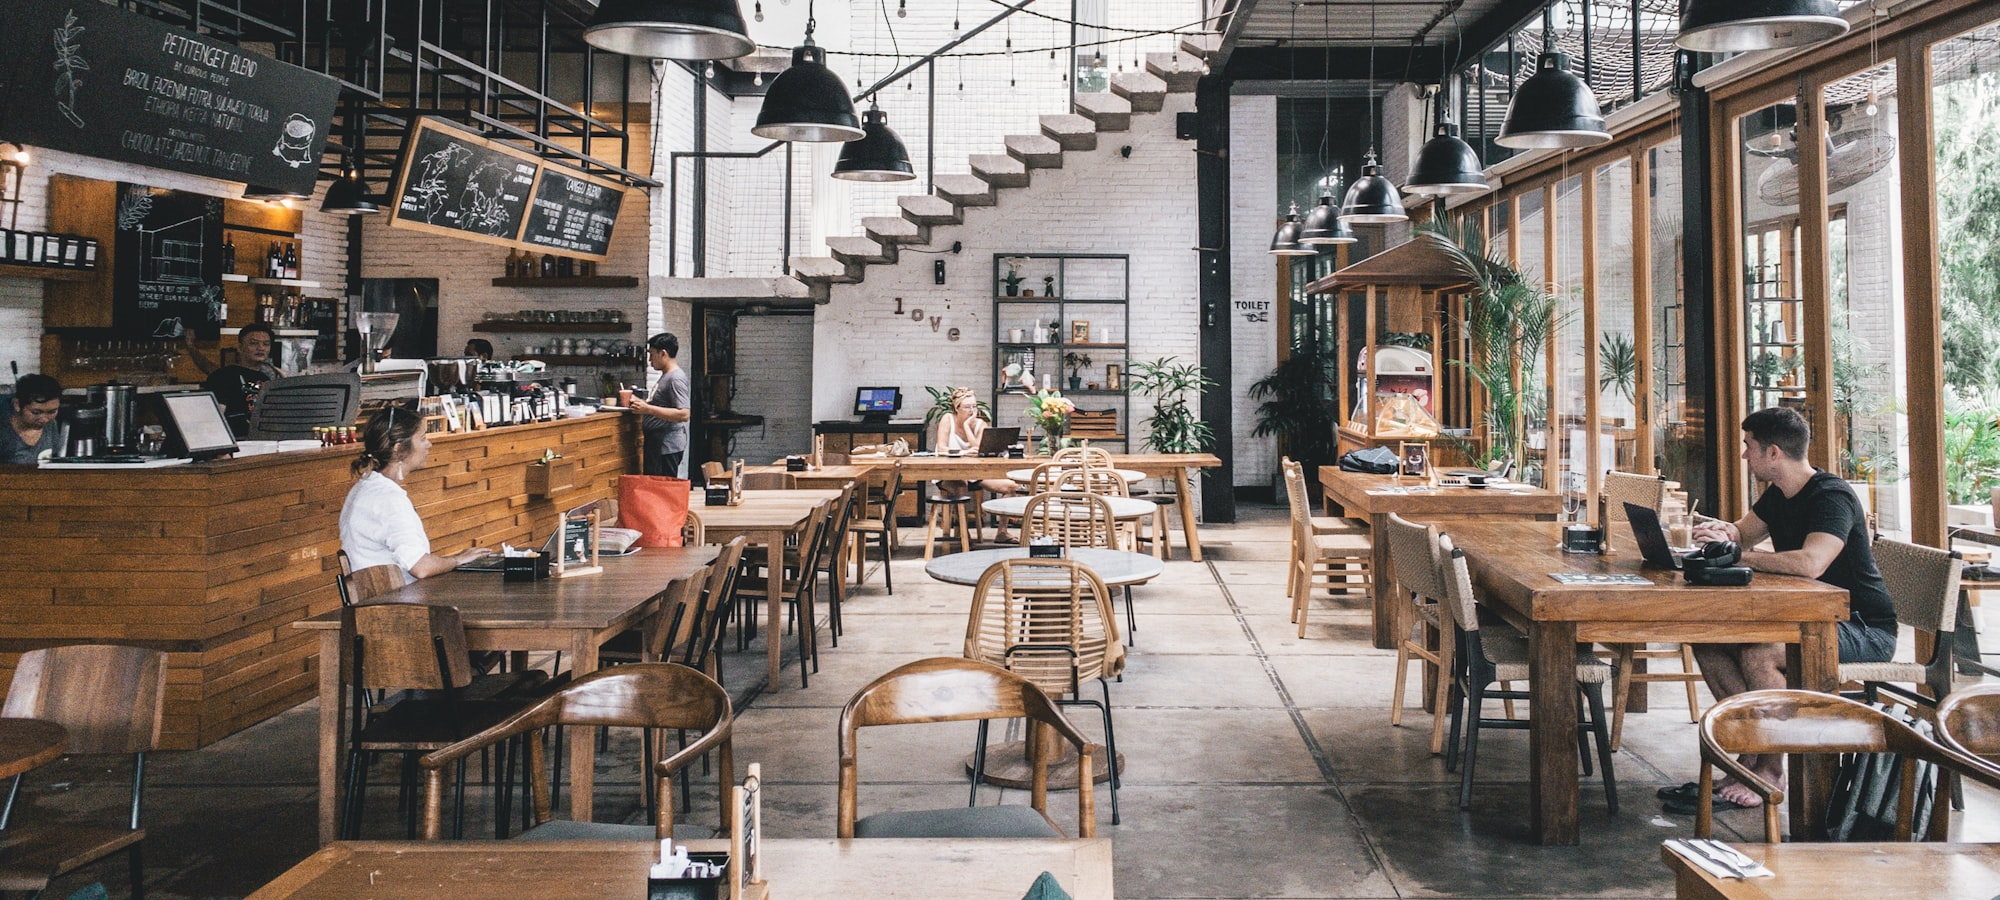
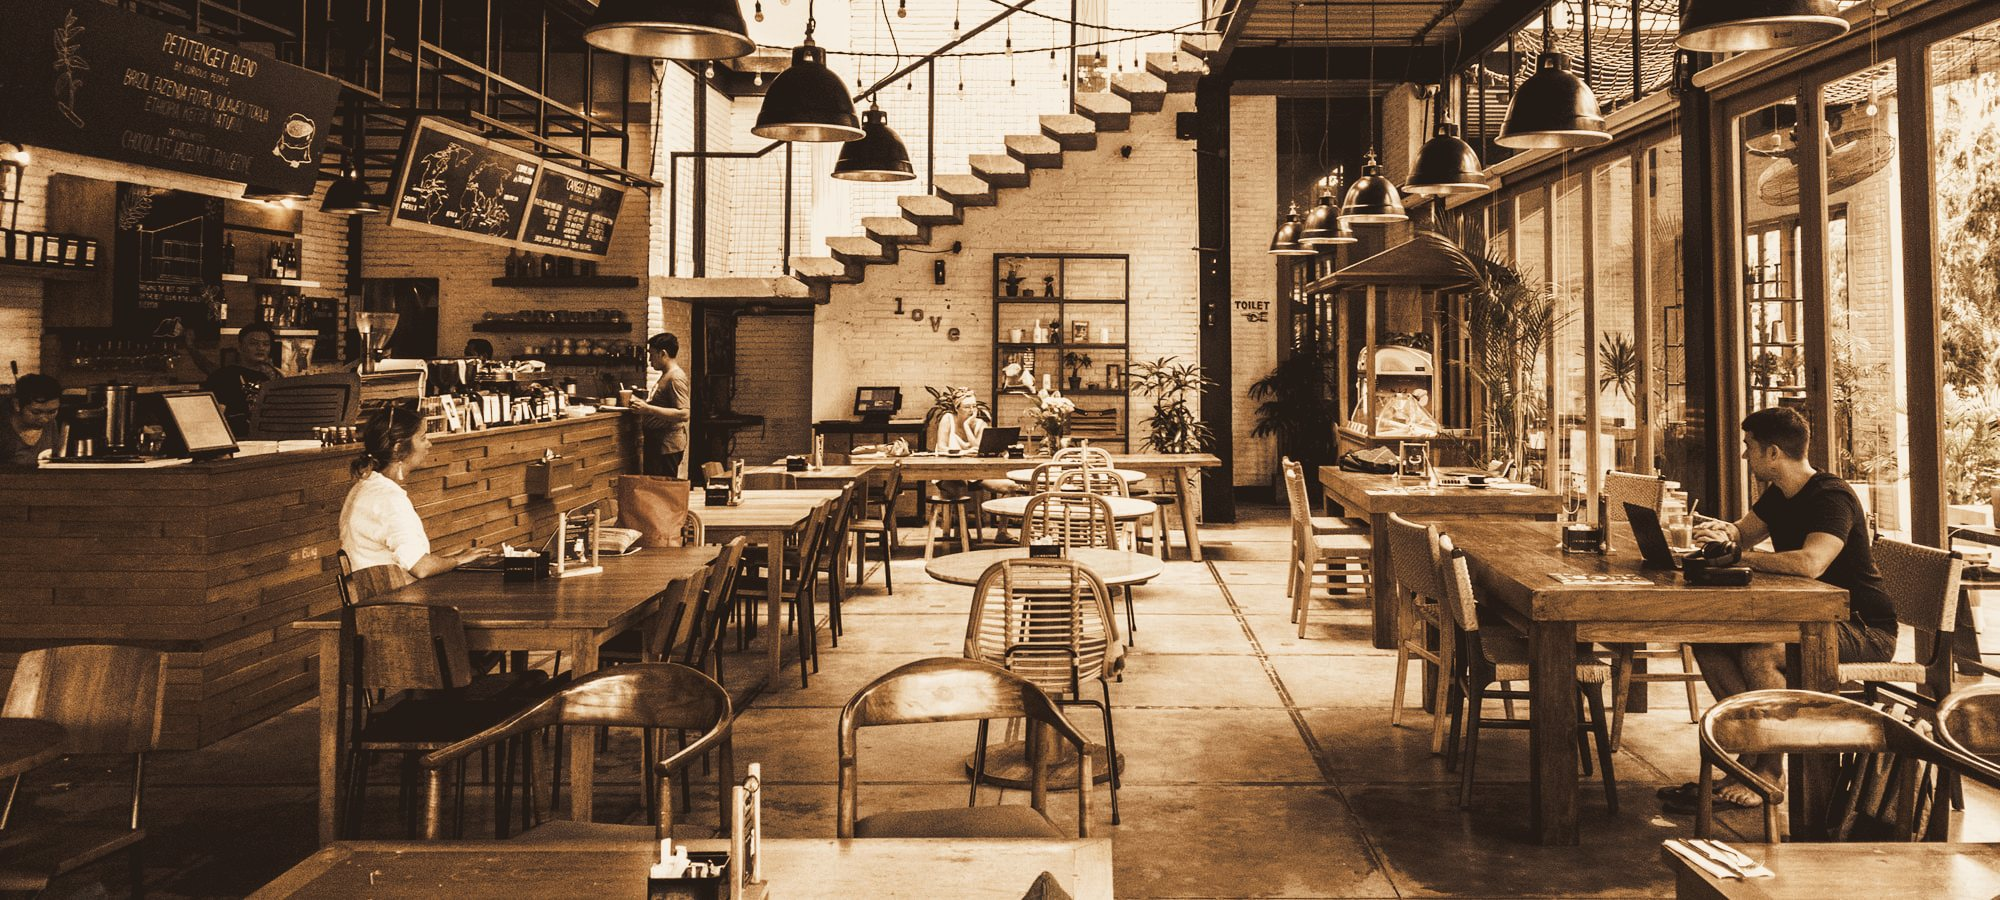
questrom: hero backdrop, unified photo grade, gallery layout
- Hero gains a full-bleed faded backdrop: a tight crop of the cup-and-table
  shot (images/hero-bg.jpg, cropped from room-table). Masked top and bottom
  and overlaid with a paper-toned gradient so the slogan keeps its contrast.
  body gets overflow-x:clip — the backdrop's 100vw layer is a scrollbar
  wider than the page. `clip` rather than `hidden` so the sticky header and
  the scroll(root) timelines keep working.

- All eight photos regraded through one warm duotone ramp built from the
  page palette (#241A14 -> #A66A33 -> #F7EEDF), 12% of the original colour
  blended back. They were eight visibly different cafes; a shared grade
  makes them read as one world. Originals recoverable from git history.

- The room section is now an asymmetric gallery: 12-column grid, three
  different aspect ratios, staggered baselines, ghost serif numerals in the
  margin, the wide plate's caption hung right, closed by a hairline that
  draws itself on scroll. Below 860px it falls back to the single column.

Claude-Session: https://claude.ai/code/session_019Fq1FbSq1xUeE1NLLhAucE

diff --git a/questrom/index.html b/questrom/index.html
@@ -41,6 +41,7 @@
 <link rel="preload" href="fonts/fraunces-latin.woff2" as="font" type="font/woff2" crossorigin>
 <link rel="preload" href="fonts/inter-latin.woff2" as="font" type="font/woff2" crossorigin>
 <link rel="preload" href="images/hero.jpg" as="image" fetchpriority="high">
+<link rel="preload" href="images/hero-bg.jpg" as="image" fetchpriority="high">
 
 <style>
   /* ---------- Type ---------- */
@@ -83,6 +84,10 @@
   @media (prefers-reduced-motion:reduce){html{scroll-behavior:auto;}}
   body{
     margin:0;background:var(--paper);color:var(--ink);
+    /* the hero's full-bleed 100vw layer is a scrollbar-width wider than the
+       page; `clip` trims it without creating a scroll container, so the
+       sticky header and the scroll(root) timelines keep working. */
+    overflow-x:clip;
     font-family:var(--sans);font-size:17.5px;line-height:1.62;
     font-feature-settings:"kern" 1;
     -webkit-font-smoothing:antialiased;
@@ -155,7 +160,23 @@
   @media (max-width:820px){ .head-nav .lnk{display:none;} }
 
   /* ---------- Hero ---------- */
-  .hero{padding:58px 0 46px;}
+  .hero{padding:58px 0 46px;position:relative;isolation:isolate;}
+  /* faded close-up (cup + table) behind the slogan, full-bleed out of .wrap */
+  .hero::before{
+    content:"";position:absolute;z-index:-1;pointer-events:none;
+    left:50%;translate:-50% 0;width:100vw;top:-96px;bottom:-40px;
+    background:url(images/hero-bg.jpg) center 38%/cover no-repeat;
+    opacity:.20;filter:saturate(.85) contrast(1.03);
+    -webkit-mask-image:linear-gradient(180deg,transparent 0,#000 22%,#000 52%,transparent 92%);
+            mask-image:linear-gradient(180deg,transparent 0,#000 22%,#000 52%,transparent 92%);
+  }
+  /* keep the paper tone reading through on the left, where the type sits */
+  .hero::after{
+    content:"";position:absolute;z-index:-1;pointer-events:none;
+    left:50%;translate:-50% 0;width:100vw;top:-96px;bottom:-40px;
+    background:linear-gradient(95deg,var(--paper) 6%,rgba(250,246,239,.72) 44%,rgba(250,246,239,.30) 100%);
+  }
+  @media (max-width:640px){ .hero::before{opacity:.14;} }
   .sig{width:64px;height:4px;background:var(--accent);border-radius:2px;margin:0 0 30px;transform-origin:left center;}
   h1{
     font-size:clamp(2.5rem,6.4vw,4.6rem);
@@ -232,12 +253,49 @@
   }
   .room .lede{margin:0 0 42px;padding-left:24px;color:var(--soft);max-width:52ch;}
   .trip{display:grid;gap:26px;grid-template-columns:1fr;}
-  @media (min-width:760px){ .trip{grid-template-columns:repeat(3,1fr);gap:30px;} }
-  .trip figure{margin:0;}
-  .trip .shot{overflow:hidden;}
+  .trip figure{margin:0;position:relative;}
+  .trip .shot{overflow:hidden;position:relative;}
   .trip img{width:100%;aspect-ratio:4/5;object-fit:cover;}
   .trip figcaption{
     margin-top:14px;font-size:.9rem;color:var(--soft);
+  }
+
+  /* --- gallery: asymmetric, off-grid, ragged baseline --- */
+  @media (min-width:860px){
+    .trip{
+      grid-template-columns:repeat(12,1fr);
+      gap:0 26px;
+      align-items:start;
+      margin-top:8px;
+    }
+    /* tall plate, dropped low and pulled into the left margin */
+    .trip figure:nth-child(1){grid-column:1 / span 5;margin-top:64px;}
+    .trip figure:nth-child(1) img{aspect-ratio:3/4;}
+    /* the wide one, raised, overlapping the gutter */
+    .trip figure:nth-child(2){grid-column:6 / span 7;margin-top:0;}
+    .trip figure:nth-child(2) img{aspect-ratio:16/10;}
+    /* the small one, indented and dropped furthest */
+    .trip figure:nth-child(3){grid-column:7 / span 4;margin-top:34px;}
+    .trip figure:nth-child(3) img{aspect-ratio:1/1;}
+
+    /* ghost numerals in the margin, the way a plate list is set */
+    .trip figure::before{
+      content:"0" counter(plate);counter-increment:plate;
+      position:absolute;top:-34px;left:-2px;
+      font-family:var(--serif);font-size:3.1rem;line-height:1;
+      color:var(--accent);opacity:.16;letter-spacing:-.04em;
+      pointer-events:none;
+    }
+    .trip{counter-reset:plate;}
+    .trip figcaption{max-width:30ch;}
+    /* captions hang in the gutter beside the plate they belong to */
+    .trip figure:nth-child(2) figcaption{margin-left:auto;text-align:right;}
+  }
+
+  /* a hairline rules off the gallery, drawn on scroll */
+  .trip-rule{
+    height:1px;background:var(--rule);margin:56px 0 0;
+    transform-origin:left center;
   }
   .trip .lbl{
     display:block;font-size:.66rem;letter-spacing:.2em;text-transform:uppercase;
@@ -410,7 +468,7 @@
       }
 
       /* rules and bars draw themselves */
-      .num::after,.brass-rule,.exclusion blockquote::before{
+      .num::after,.brass-rule,.exclusion blockquote::before,.trip-rule{
         animation:draw-x .9s var(--ease) both;
         animation-timeline:view();
         animation-range:entry 8% entry 56%;
@@ -656,7 +714,7 @@
     <div class="wrap">
       <p class="kicker reveal">The room itself</p>
       <h2 class="reveal">Built for a long sitting, and for the chance you&rsquo;ll want company partway through.</h2>
-      <p class="lede reveal">Two rooms, thirty-one seats, and a counter that has heard most versions of the problem you walked in with.</p>
+      <p class="lede reveal">Two rooms, thirty-one seats, and a counter that has heard most versions of the problem you walked in with. Three plates from the same afternoon.</p>
       <div class="trip">
         <figure>
           <div class="shot"><img src="images/room-light.jpg" alt="A barista at the espresso machine, silhouetted against morning sun coming through a striped awning." width="900" height="1125" loading="lazy" decoding="async"></div>
@@ -671,6 +729,7 @@
           <figcaption><span class="lbl">The back corner</span>Where two people end up when fifteen minutes turns into an hour.</figcaption>
         </figure>
       </div>
+      <div class="trip-rule reveal" aria-hidden="true"></div>
     </div>
   </section>
 
